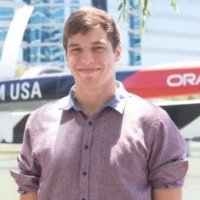
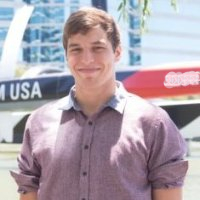
took oracle out of pic

Changed region(s): [[0.81, 0.33, 1.0, 0.45]]

diff --git a/data_science_blog.html b/data_science_blog.html
@@ -23,7 +23,7 @@
   <div class="container">
 	  <div class="col span_2_of_3">
       <div class="blog-post">
-        <h1 class="blog-title"><a href="https://www.udacity.com/course/deep-learning--ud730">Deep Learning-Udacity</a></h1>
+        <h1 class="blog-title"><a href="https://www.udacity.com/course/deep-learning--ud730" target="_blank">Deep Learning-Udacity</a></h1>
         <h2 class="date">August 15th 2017</h2>
         <p class="blog-content">I was proud to implement my first, solo, neural network over the summer. I’ve been enjoying Udacity’s free online course on <a href="https://www.udacity.com/course/deep-learning--ud730" class="post-link" target = '_blank'>Deep Learning</a>. The class is taught in Python, and the nets are implemented in TensorFlow. With intuitive lectures and with some helpful, provided code, instructors cover NNs, CNNS, and LSTM models. To teach, they primarily use the NotMINST numeric picture dataset. There’s strong forum support and some very clever/pythonic students. The class is an intermediate difficulty and it helps to have some prior logistic regression and classification exposure. Having started implementation of the CNNs, I would recommend this class to anyone interested in learning more about the algorithms driving innovation in AI and computer vision.</p>
         <a href="https://udacity.com/" class="post-link" target="_blank">See Their Other Classes</a>
@@ -38,7 +38,7 @@
 
     <div class="col span_3_of_3">
       <div class="blog-post">
-        <h1 class="blog-title"><a href="project-info-button" href="https://drive.google.com/file/d/0B_0n65TMHDBHZi1lTE1rdy1UNWs/view?usp=sharing">The Crimes that Divide Us</a></h1>
+        <h1 class="blog-title"><a href="project-info-button" href="https://drive.google.com/file/d/0B_0n65TMHDBHZi1lTE1rdy1UNWs/view?usp=sharing" target="_blank">The Crimes that Divide Us</a></h1>
         <h2 class="date">June 10th 2017</h2>
         <p class="blog-content">There's a link to this project's poster on my <a href="projects.html" class="post-link" target = '_blank'>Project Page</a>, but I felt that the paper itself should be hosted here. In my Senior Spring, I took a class taught by Dr. Latanya Sweeney: head of the data privacy lab with years of experience in governmental technology and innovation. For our final project, we had the opportunity to investigate the effects and general availability of data. Using meta-data on crime, broken out state by state, I found significant clusters of states based on similar criminal activity.</p>
         <a href="https://drive.google.com/file/d/0B_0n65TMHDBHZi1lTE1rdy1UNWs/view?usp=sharing" class="post-link" target="_blank">Feel the Divide...</a>
@@ -47,7 +47,7 @@
     
 	  <div class="col span_3_of_3">
       <div class="blog-post">
-        <h1 class="blog-title"><a href="https://www.kaggle.com/c/march-machine-learning-mania-2016">March Madness</a></h1>
+        <h1 class="blog-title"><a href="https://www.kaggle.com/c/march-machine-learning-mania-2016" target="_blank">March Madness</a></h1>
         <h2 class="date">March 17th 2017</h2>
         <p class="blog-content">March might be over, but the madness of sports analysis never ends! Nearly 20 million NCAA March Madness brackets were made in 2017; has yours busted yet? It seems like every year some no-name high seed upsets a lower seeded team in a marvelous display of determination and grit. Given the immense amount of sports data collected on college basketball, predicting tournament winners is a data scientist’s sweetest of dreams. In fact, every year, Kaggle hosts an NCAA March Madness Bracket prediction competition <a href="https://www.kaggle.com/c/march-machine-learning-mania-2016" class="post-link" target = '_blank'>(click here to check it out)</a>. For my final project of Harvard’s CS109A (Intro Datasciecne), I worked with a team to predict which college teams would win in a head to head March Madness matchup. Click below to read more about it.</p>
         <a href="https://www.data-drivenmarchmadness.com/" class="post-link" target="_blank">Make a Bracket...</a>
